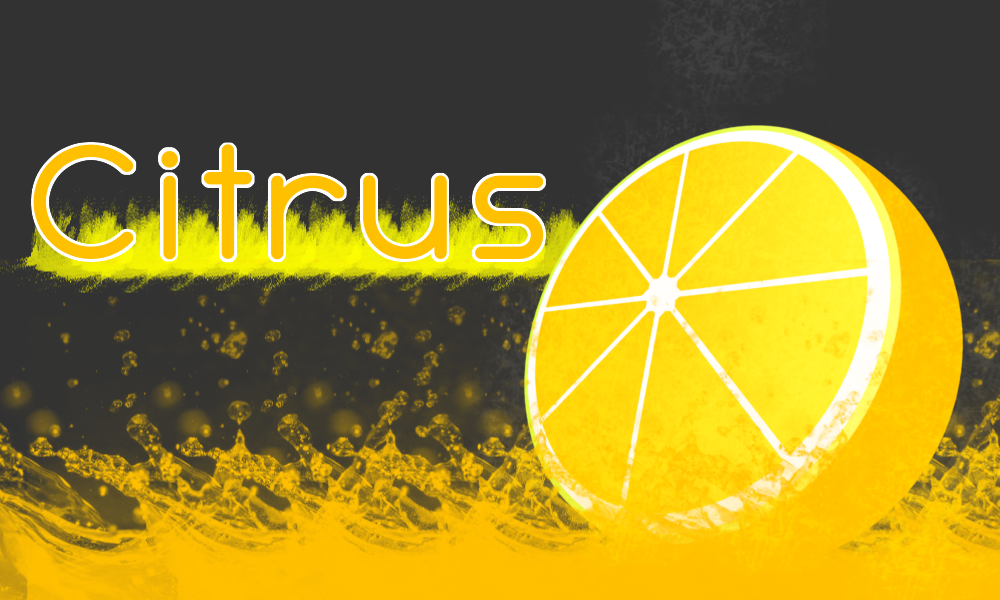
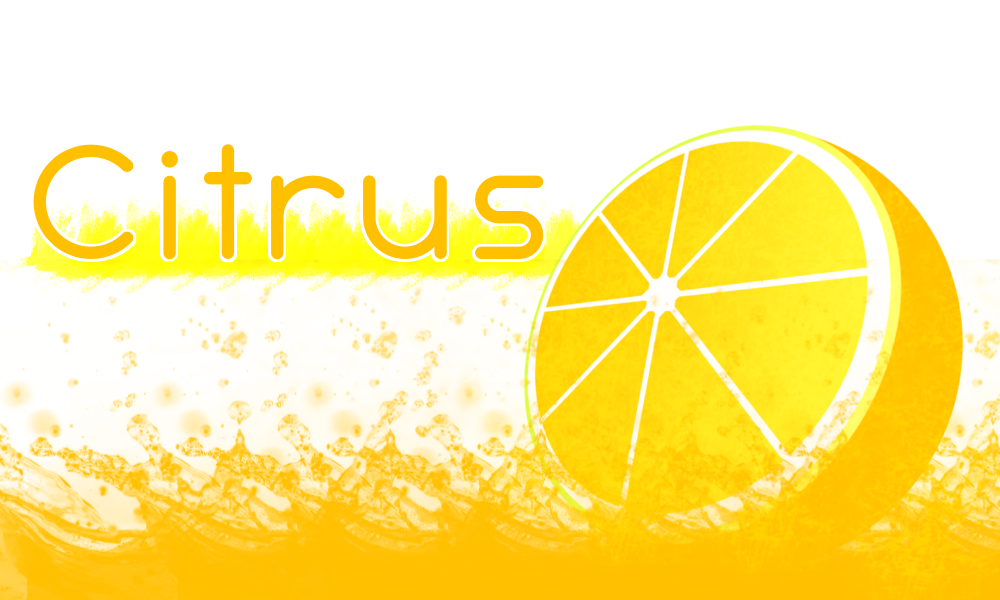
スプラッシュスクリーンの画像差し替え

diff --git a/src/main/resources/layout/main.css b/src/main/resources/layout/main.css
@@ -24,6 +24,7 @@
 }
 .menu{
     -fx-background-color: #505050;
+    -fx-border-width: 0;
 }
 .menu:showing,.menu-:hover{
     -fx-background-color: #151515;
@@ -71,8 +72,8 @@
 .slider .track{
     -fx-background-color: #808080;
     -fx-border-color: #909090;
-    -fx-border-radius: 5;
-    -fx-pref-height: 8;
+    -fx-border-radius: 4;
+    -fx-pref-height: 4;
 }
 .slider .thumb{
     -fx-background-color: #454545;
